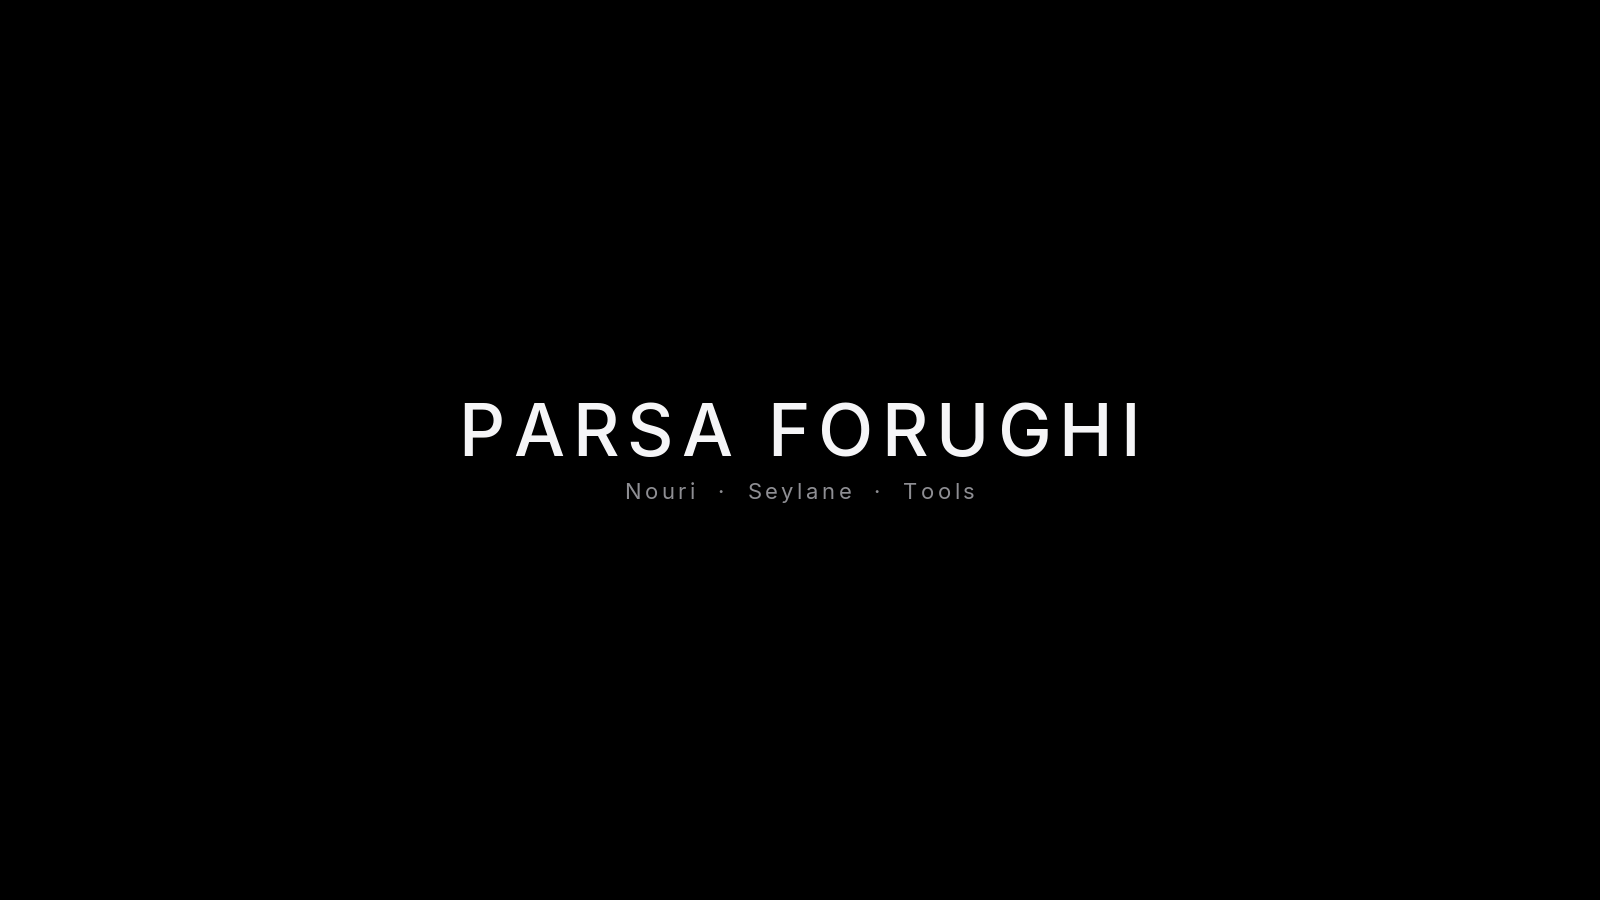
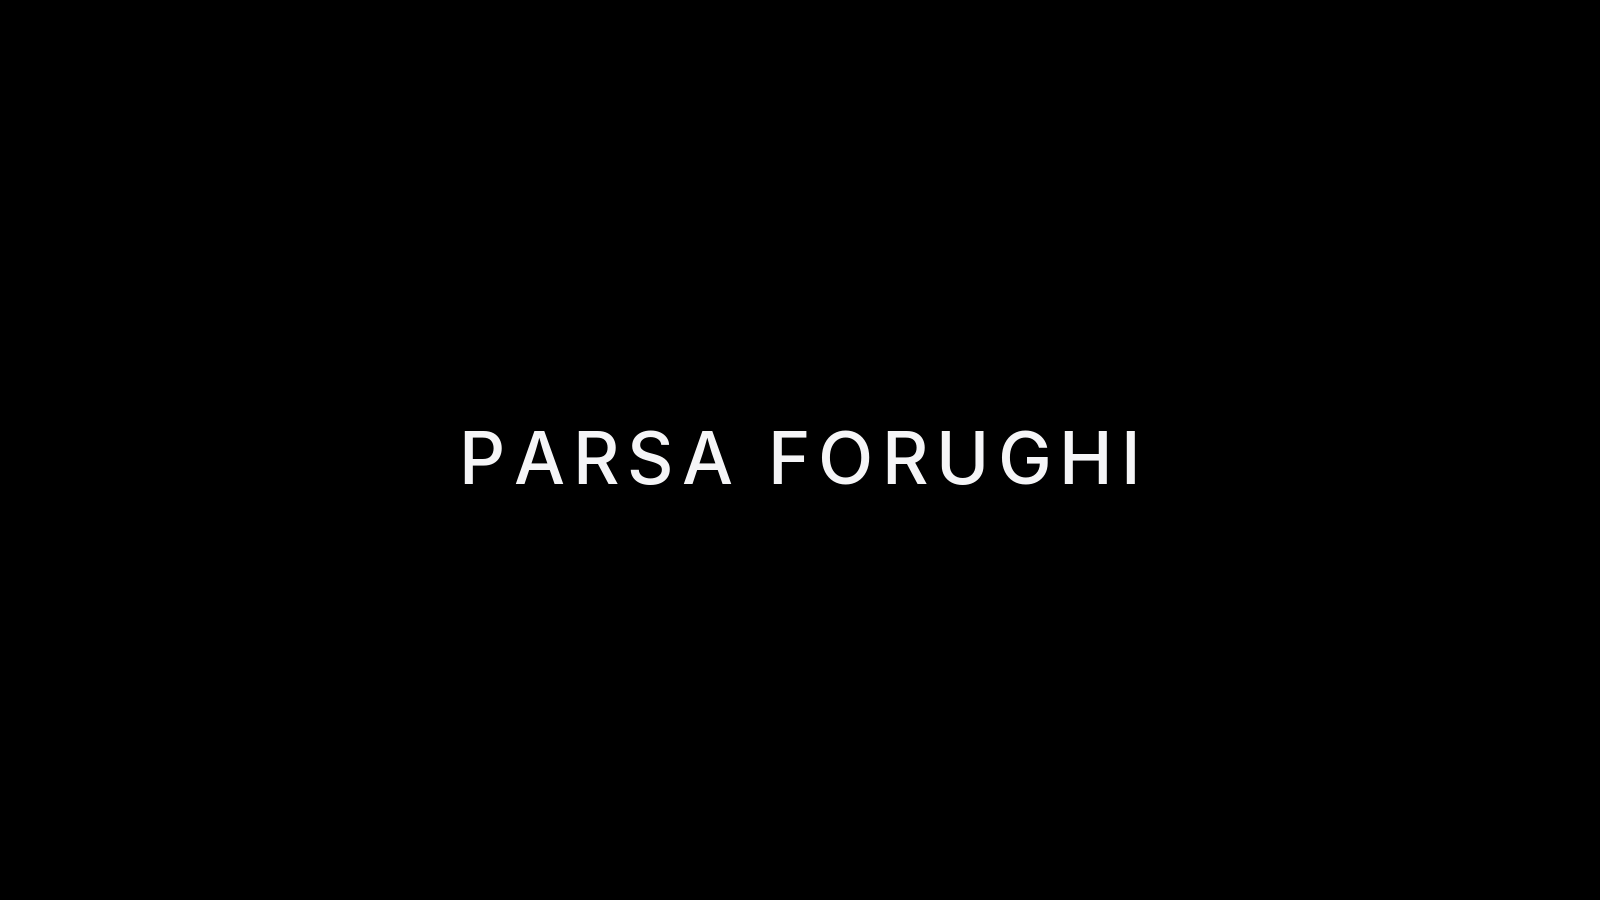
Drop client and house names from the public profile
List products only. Remove Nouri, Seylane, and other commission
labels from the README and the header image.

Changed region(s): [[0.2812, 0.4356, 0.7188, 0.56]]

diff --git a/README.md b/README.md
@@ -1,18 +1,14 @@
 <p align="center">
-  <img src="docs/og.png" alt="Parsa Forughi — Nouri · Seylane · Tools" width="100%">
+  <img src="docs/og.png" alt="Parsa Forughi" width="100%">
 </p>
 
-<p align="center">Product systems for brand houses.</p>
-
-## Nouri
+<p align="center">Selected work.</p>
 
 **[Reeldrive](https://github.com/parsaforughi/reeldrive)**  
 Instagram media, in Telegram. Posts, reels, stories, highlights. Page connect.
 
 **[Bstory](https://github.com/parsaforughi/BOMA)**  
 Mobile story studio. Type, effects, stickers.
-
-## Seylane
 
 **[MastermindOS](https://github.com/parsaforughi/mastermindos-dashboard)**  
 Dashboard for bots and automation. Monitor, measure, control.
@@ -28,10 +24,8 @@ Winter campaign portraits from a face and a product still.
 **[Collamin](https://github.com/parsaforughi/collamin-shelftalker)**  
 Shelftalker. Aging, with and without the product. Story-ready.
 
-**[VIP](https://github.com/parsaforughi/seylane-vip)**  
-VIP Passport. Telegram client and API.
-
-## Tools
+**[VIP Passport](https://github.com/parsaforughi/seylane-vip)**  
+Telegram client and API.
 
 **[Directam Pro](https://github.com/parsaforughi/directam-pro)**  
 Comment-to-DM on Meta’s official Instagram API.
